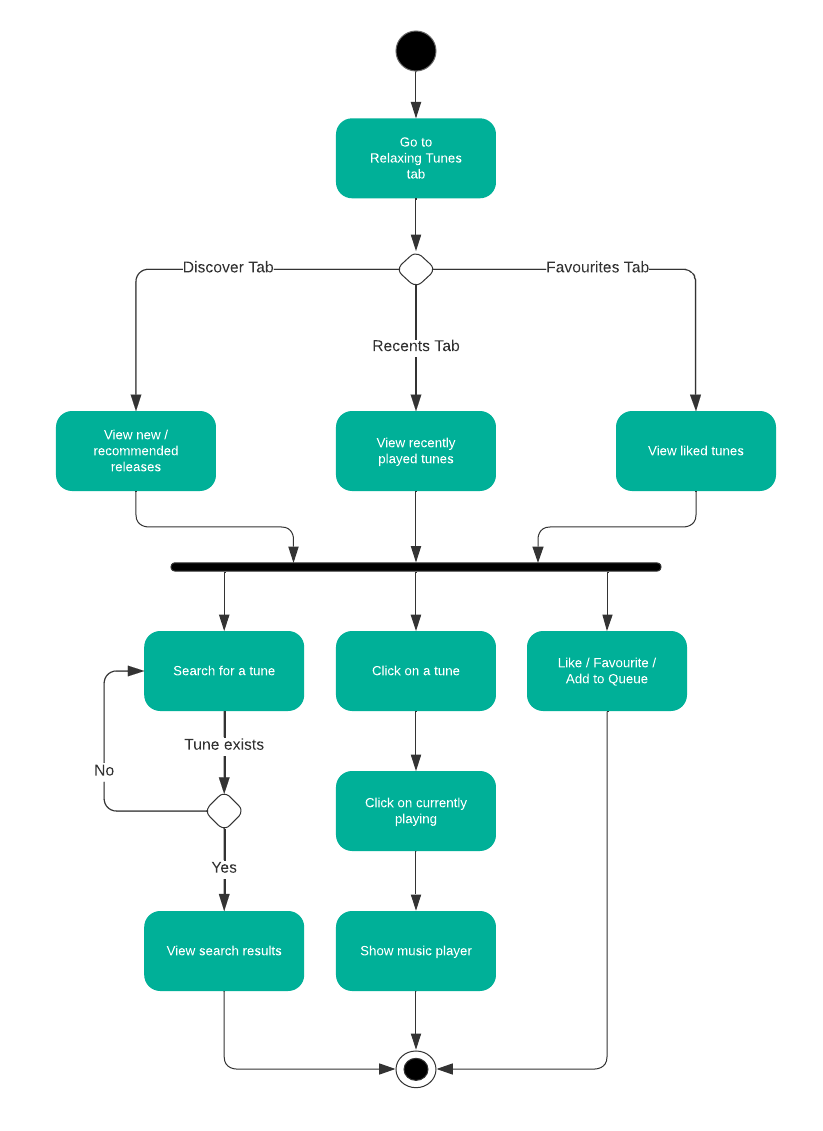
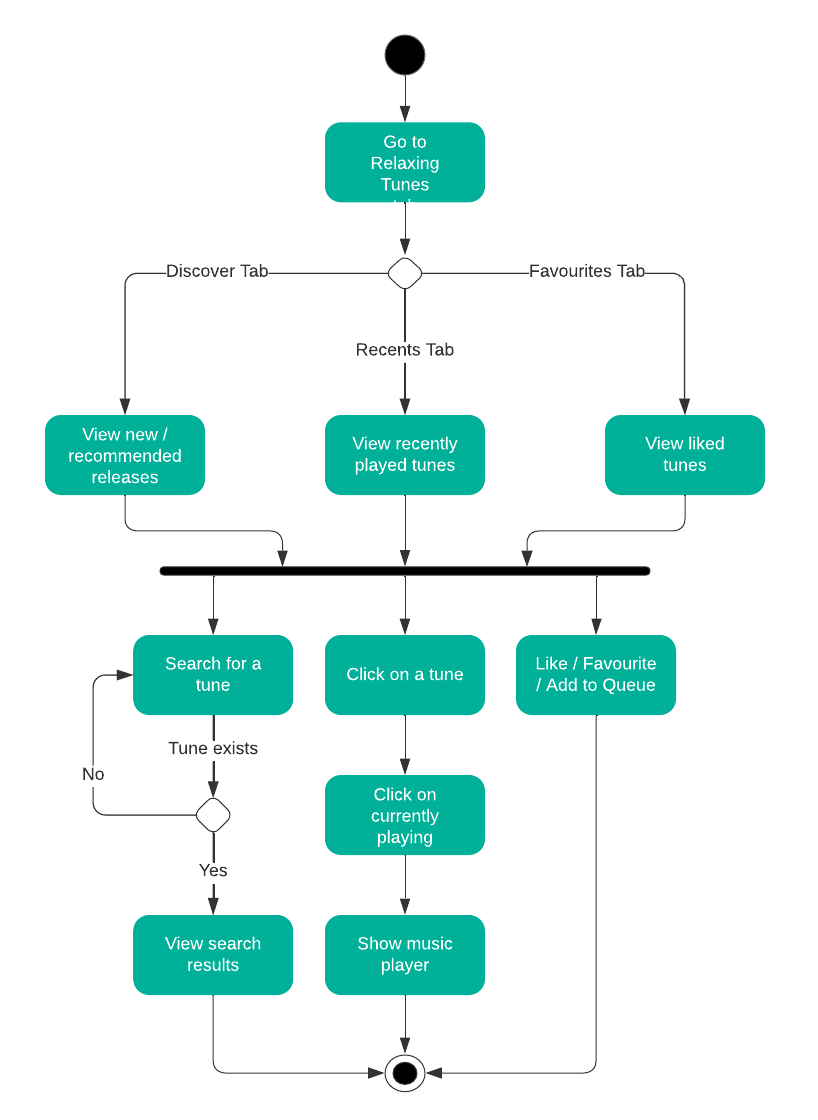
Fix Activity Diagram Size

Changed region(s): [[0.0306, 0.0, 0.9474, 0.9688]]

diff --git a/README.md b/README.md
@@ -63,11 +63,17 @@ _Sleepy_ is helpful for everyone.
 
 "As an overthinker, I want a reflective journaling feature so that I can jot down my thoughts and clear my mind before going to bed."
 
-![](./images/activity_diagrams/Journal.png)
+<p align="center">
+  <img src="./images/activity_diagrams/Journal.png" width="700px"/>
+</p>
+
+---
 
 "As a therapy patient, I want to listen to calming tunes, so that I can manage my anxiety before bed."
 
-![](./images/activity_diagrams/Tunes.png)
+<p align="center">
+  <img src="./images/activity_diagrams/Tunes.png" width="700px"/>
+</p>
 
 ## Wireframe Diagrams
 
